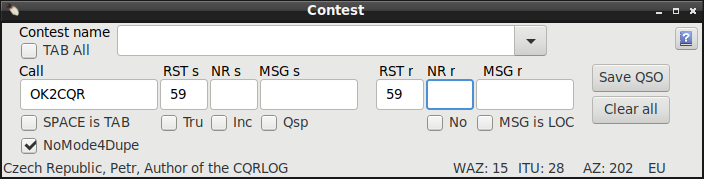
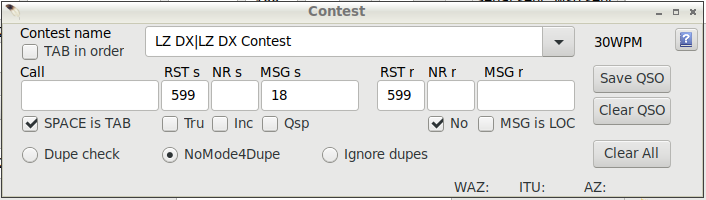
Fixes and additions to Contest form     	- Fixed non working dupe check (was upside down & NoMode4dupe not working at all)     	- Fixed some texts,  anchoring and layouts     	- Fixed tabulation stops setting     	- Fixed status bar [0] text filtering (change 0x0A to | )     	- Fixed help page
- Added contest name saving/loading with other settings
    	- Added "Clear all"-button to remove all saved settings (when start of new contest)

    	- Tested. Should now work as intended.

	- squashed: small fixes to layout and save settings

Squashed commit of the following:

commit 34f0a85b2f8f976e786fb95961e201e6b49a597c
Author: OH1KH <oh1kh@sral.fi>
Date:   Tue Nov 23 08:50:09 2021 +0200

    small fix for save settings.

commit 1213bf6e401584f30b57d3ccfcb95c4991d6896f
Author: OH1KH <oh1kh@sral.fi>
Date:   Mon Nov 22 18:45:02 2021 +0200

    Small layout fix

commit ad5b4bceed50851b5de1f159dec03f8d12fb84ed
Author: OH1KH <oh1kh@sral.fi>
Date:   Mon Nov 22 14:06:29 2021 +0200

    Fixes and additions to Contest form

        	- Fixed non working dupe check (was upside down & NoMode4dupe not working at all)
        	- Fixed some texts,  anchoring and layouts
        	- Fixed tabulation stops setting
        	- Fixed status bar [0] text filtering (change 0x0A to | )
        	- Fixed help page

        	- Added contest name saving/loading with other settings
        	- Added "Clear all"-button to remove all saved settings (when start of new contest)

        	- Tested. Should now work as intended.

diff --git a/help/contest.html b/help/contest.html
@@ -65,16 +65,20 @@ Contest window has a simple dupe check that turns typed duplicate callsign bold 
 <p>
 Contest window has following fields and checkboxes:<br>
 <ul>
-<li><b>Tab All</b> when checked overrides all other Tab settings (below) and Tab Order is Call-RSTs-NRs-MSGs-RSTr-NRr-MSGr-SaveQSO-ClearAll</li>
+<li><b>Tab in order</b> when checked overrides all other Tab settings (below) and Tab Order is Call-RSTs-NRs-MSGs-RSTr-NRr-MSGr-SaveQSO-ClearAll</li>
 <li><b>Call</b> when you leave this field callsign is moved to NewQSO. Callsign turns BOLD RED if it is duplicate.</li>
 <li><b>SPACE is TAB</b> when checked space bar acts like TAB-key moving to next field. <b>Note:</b>This prevents typing space (perhaps needed in MSG fields).</li>
-<li><b>NoMode4Dupe</b> Default checked. Means that callsign is duplicate if it is worked on that band in any mode. There are contests where you can work same station again on same band if mode is different (separate CW,SBB,RTTY sections). In that case uncheck this checkbox.
+<li><b>Dupe check</b> Default checked.
+<li><b>NoMode4Dupe</b> Means that same callsign can be worked again on same band if mode is different.
 </li>
+<li><b>Ignore dupes</b> Do not check duplicate qsos at all.</li>
 <br>
-<li><b>RST s</b> copied from NewQSO, so should correspond used mode. Can be changed.</li>
+<li><b>RST s</b> copied from NewQSO, so should correspond used mode. Can be changed.
+<br><b> Note:</b> defaults to 599 (as NewQSO) If mode is not CW it will change after cursor leaves callsign column. So do not worry when working non-cw contest!</li>
 <li><b>Tru</b> means you like to exchange true reports. Makes Tab order to stop at RST (s & r) fields. Useful in some high band contests, Es and tropo openings.</li>
 <br>
-<li><b>NR s</b> serial number to send. <b>Note:</b> you can type only numbers to NR s field.</li>
+<li><b>NR s</b> serial number to send. 
+<br><b> Note:</b> you can type only numbers to NR s field.</li>
 <li> <b>Inc</b> if checked it will auto increment serial number. You may change this number at any time. Increment goes on from typed number.</li>
 <br>
 <li><b>MSG s</b> sometimes you may need an additional message with number, or just a message with no number. On high band contests you may type your locator here.</li>
@@ -82,15 +86,22 @@ Contest window has following fields and checkboxes:<br>
 <br>
 <li><b>RST r</b> copied from NewQSO, so should correspond used mode. Can be changed.</li>
 <br>
-<li><b>NR r</b> serial number you receive. <b>Note:</b> you can type only numbers to NR r field. </li>
+<li><b>NR r</b> serial number you receive.
+<br><b> Note:</b> you can type only numbers to NR r field. </li>
 <li><b>No </b> if no serial number then setting this changes tab order so that it jumps directly to MSG r. </li>
 <br>
 <li><b>MSG r</b> message you receive</li>
 <li> <b>MSG is LOC</b> if checked then message will be logged <b>ALSO</b> as locator grid <b>AND</b> SRX String</li>
 <br>
-<li><b>Save QSO</b> Save QSO button at NewQSO, increments NR and clears all fields. <b>Note:</b> pressing <b>ENTER at any time</b> after Call field is filled does the same.</li>
-<li><b>Clear all</b> Clear all fields.  <b>Note:</b> Pressing 2x ESC key does the same.</li>
+<li><b>Save QSO</b> Save QSO button at NewQSO, increments NR and clears all fields.
+<br><b> Note:</b> pressing <b>ENTER at any time</b> after Call field is filled does the same.</li>
+<li><b>Clear QSO</b> Clear all QSO information.
+<br><b> Note:</b> Pressing 2x ESC key does the same.</li>
+<br><li><b>Clear all</b> Clear all fields. Usefull when starting a new contest to remove saved settings.</li>
 </ul>
+<br>
+All settings, including contest name, are saved when closing contest form. When opening cqrlog and contest form again after rest period you can directly continue contest working.
+
 </p>
 <p>
 <b>Typical contest qso goes like this:</b><br>
